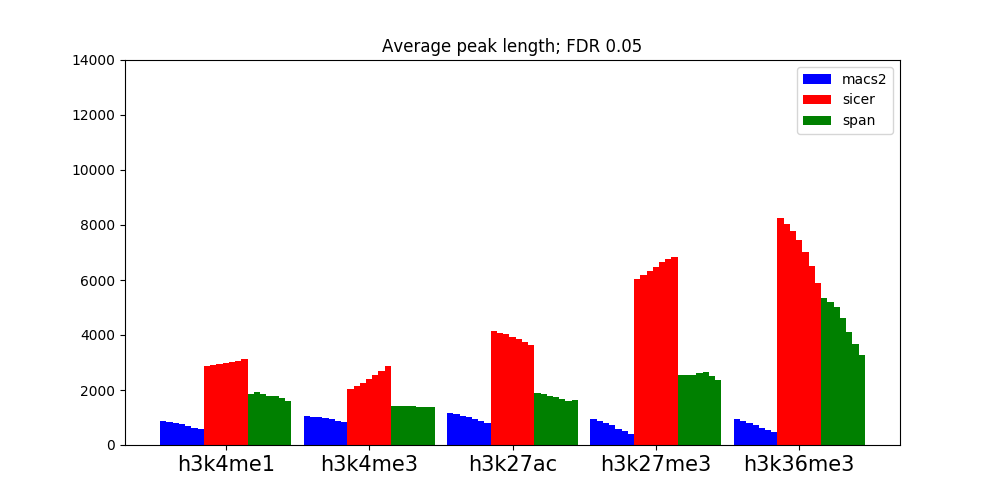
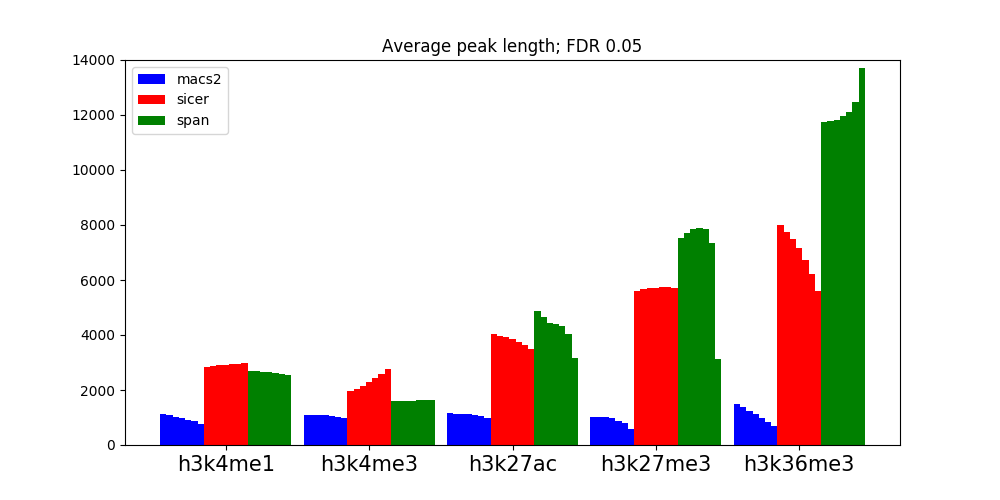
update pipeline

diff --git a/scripts/result_visualization.py b/scripts/result_visualization.py
@@ -14,18 +14,20 @@ alg_colors = ["b", "r", "g"]
 
 def plot_peaks_dynamics(path_dict, ind, fdr):
     # draw plot of changing number of peaks and average peak length
-    ns = np.array()
-    means = np.array()
-    for h in ["h3k4me1", "h3k4me3", "h3k27ac", "h3k27me3", "h3k36me3"]:
+    ns = np.zeros((len(histones) * len(algorithms) * len(ind),))
+    means = np.zeros((len(histones) * len(algorithms) * len(ind),))
+    idx = 0
+    for h in histones:
         for [folder, file_end] in path_dict[h]:
             n, m = peak_dynamics(folder, file_end, ind)
-            ns = np.concatenate((ns, n), axis=1)
-            means = np.concatenate((means, m), axis=1)
+            ns[idx:idx + len(ind)] = n
+            means[idx:idx + len(ind)] = m
+            idx += len(ind)
 
-    def dynamic_plot(values, title, title_to_save):
+    def dynamic_plot(values, title, title_to_save, ylim):
         x = np.asarray([i * 0.25 for i in range(len(ind))])
         plt.figure(figsize=(10, 5))
-
+        plt.ylim([0, ylim])
         for i in range(
                 0, len(histones) * len(algorithms) * len(ind), len(algorithms) * len(ind)
         ):
@@ -47,9 +49,10 @@ def plot_peaks_dynamics(path_dict, ind, fdr):
         )
         plt.title(f"{title}; {fdr}")
         plt.savefig(f"../result/{title_to_save}_fdr_{fdr}.png")
+        plt.show()
 
-    dynamic_plot(ns, 'Number of peaks', 'n_peaks')
-    dynamic_plot(ns, 'Average peak length', 'len_peaks')
+    dynamic_plot(ns, 'Number of peaks', 'n_peaks', 130000)
+    dynamic_plot(means, 'Average peak length', 'len_peaks', 14000)
 
 
 def plot_true_peaks_comparison():
@@ -113,6 +116,6 @@ def plot_peak_set_comparison(fdr):
 if __name__ == "__main__":
     plot_true_peaks_comparison()
     ind = [i for i in range(7)]
-    for fdr, path_dict in zip(fdrs, [fdr_05_path, fdr_e6_path]):
+    for fdr, path_dict in zip(fdrs, [fdr_e6_path, fdr_05_path]):
         plot_peaks_dynamics(path_dict, ind, fdr)
         plot_peak_set_comparison(fdr)

diff --git a/scripts/peaks_dynamics.py b/scripts/peaks_dynamics.py
@@ -74,11 +74,10 @@ def read_peaks(fname):
             else:
                 return 23 if m.group(1) == 'X' else 24
 
-    bed_file = bed_file\
-        .where(bed_file[0].apply(chrom_parser))\
-        .dropna(how='any')
+    bed_file[0] = bed_file[0].apply(chrom_parser)
+    bed_file.dropna(how='any', inplace=True)
 
-    peaks = bed_file[[0, 1, 2]].values()
+    peaks = bed_file[[0, 1, 2]].values
     return peaks
 
 
